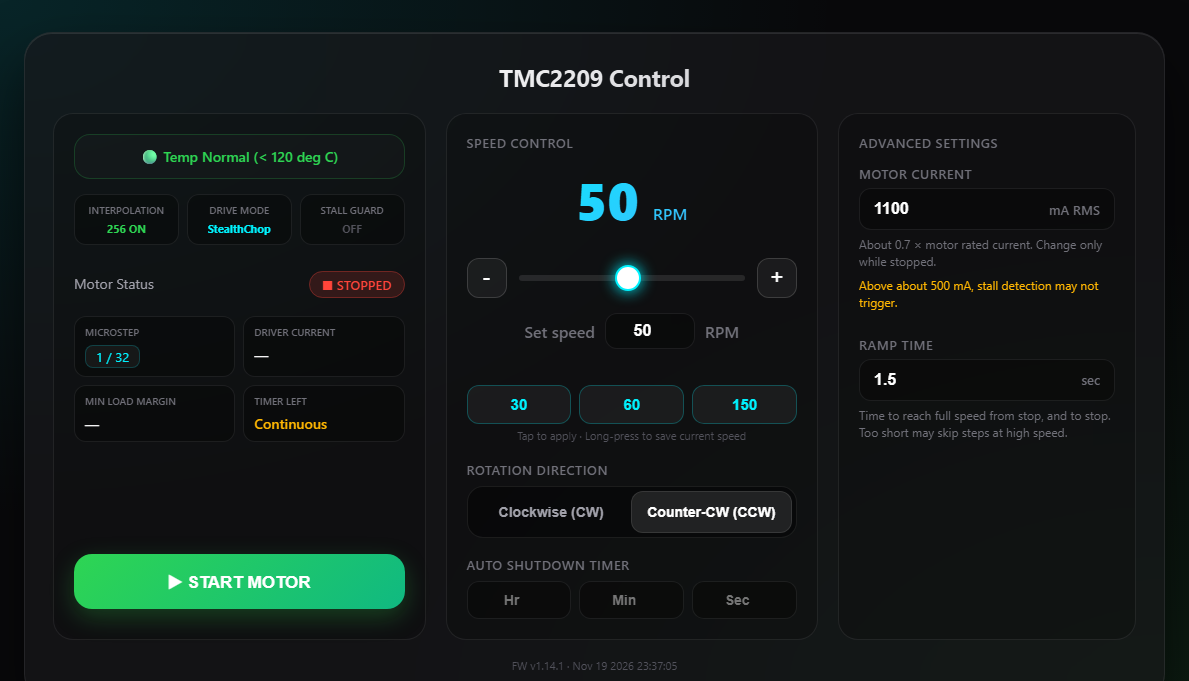
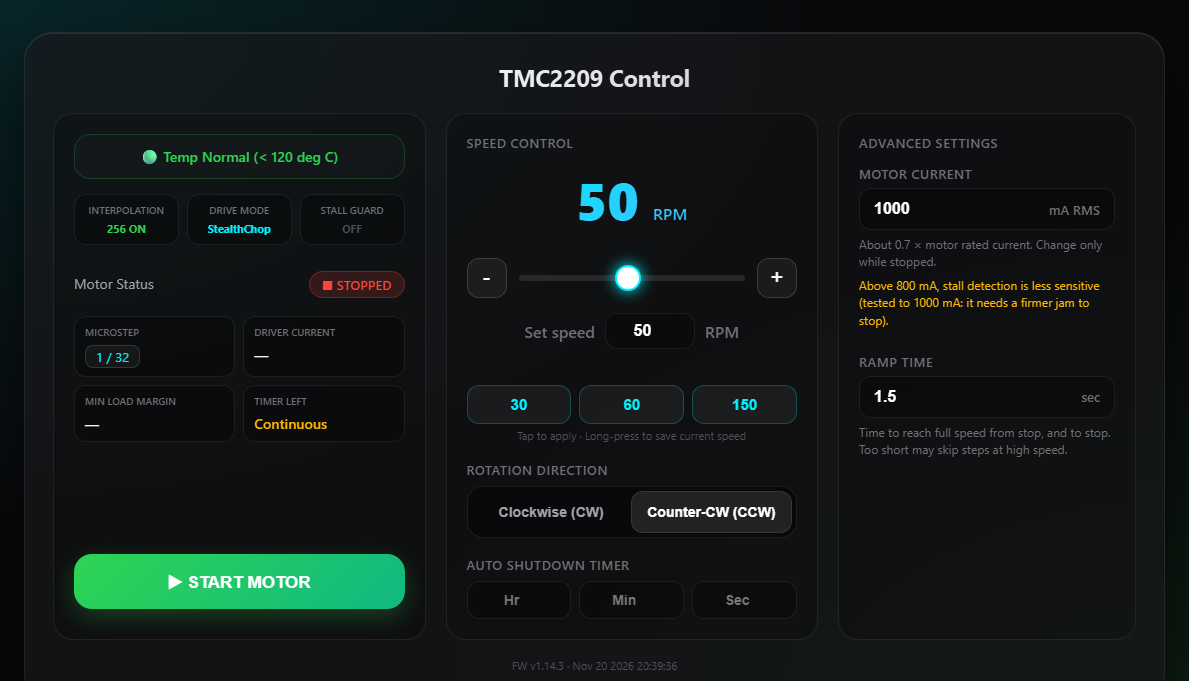
docs: stall detection is less sensitive above 800 mA (tested to 1000 mA)
Pinch tests with real current: 450-800 mA trip quickly; 1000 mA still
trips but needs a firmer, longer jam. Update the page hint and README,
recommend 800 mA for daily use, and refresh the screenshot (v1.14.3).

Changed region(s): [[0.7157, 0.4009, 0.9336, 0.6784], [0.7468, 0.2775, 0.778, 0.3084]]

diff --git a/index_html.h b/index_html.h
@@ -571,7 +571,7 @@ function applyStatus(o) {
   </div>
   <div id='ma_err' class='field-err'></div>
   <div class='field-hint'>About 0.7 &times; motor rated current. Change only while stopped.</div>
-  <div id='ma_stall_hint' class='field-hint field-warn' style='display: none;'>Stall detection was tested up to 800 mA; above that it may not trigger.</div>
+  <div id='ma_stall_hint' class='field-hint field-warn' style='display: none;'>Above 800 mA, stall detection is less sensitive (tested to 1000 mA: it needs a firmer jam to stop).</div>
   </div>
 
   <div class='field'>

diff --git a/README.md b/README.md
@@ -2,7 +2,7 @@
 
 用 ESP32 + TMC2209 做的步進馬達網頁控制面板。連上 ESP32 的 Wi-Fi 熱點，就能用手機或電腦控制。
 
-<img width="800" alt="控制面板畫面 (FW v1.14.1)" src="docs/screenshot.png" />
+<img width="800" alt="控制面板畫面 (FW v1.14.3)" src="docs/screenshot.png" />
 
 ---
 
@@ -29,7 +29,7 @@
 
 **安全保護**
 * **過熱**：超過 150°C 自動停機，降溫後解除
-* **卡住偵測**：30 ~ 130 RPM 有效，轉速穩定 1 秒後自動記錄基準，卡住約 1~2 秒內停機（實測 450、600、800 mA 都能觸發；超過 800 mA 未測試，網頁會顯示提醒）。面板顯示的百分比與停機判斷相同（最近 6 次中第 3 低），低於 35% 即停機
+* **卡住偵測**：30 ~ 130 RPM 有效，轉速穩定 1 秒後自動記錄基準，卡住約 1~2 秒內停機（實測 450 ~ 800 mA 反應靈敏；1000 mA 仍會觸發，但要卡得較緊、較久；超過 1000 mA 未測試。電流超過 800 mA 時網頁會顯示提醒，日常建議 800 mA）。面板顯示的百分比與停機判斷相同（最近 6 次中第 3 低），低於 35% 即停機
 * **線圈短路**：立即停機；**線圈斷線**：顯示警告
 * **UART 斷線**：連續 3 秒讀不到驅動器就停機（讀取時接受 CRC 為 0 的合法回覆，避免 TMCStepper 原本的誤判）
 * **驅動器重新上電**：立即停止步進脈衝，自動重寫設定並用寫入計數確認全部收到（含電流），確認前禁止啟動
